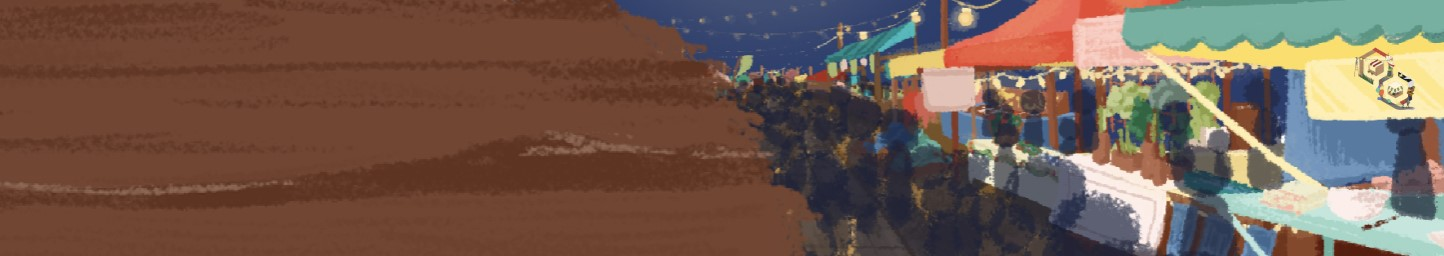
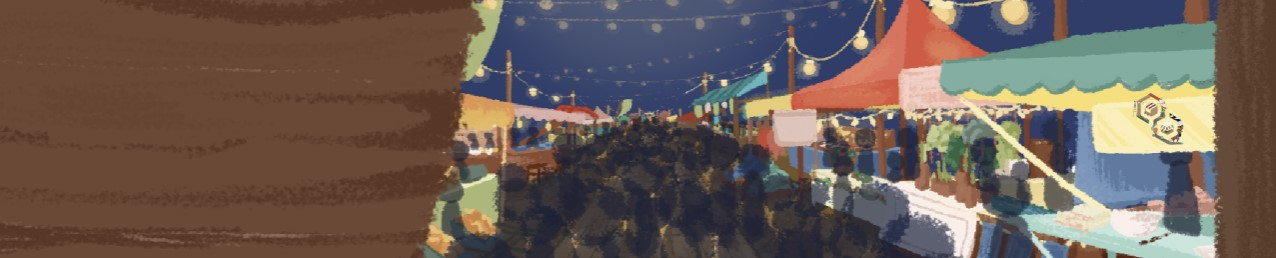
release candidate 1 // new design

diff --git a/src/components/EventCard.tsx b/src/components/EventCard.tsx
@@ -2,26 +2,28 @@ import { Box, Link, Text } from "@chakra-ui/react";
 import { EventInfo } from "../types";
 import '../styles/eventCard.css';
 
-const textColors = ['white', '#223'];
-
 const EventCard = (event: EventInfo) => {	
-	const textColor = textColors[event.useWhiteText? 0 : 1];
-	const textShadowColor = event.useWhiteText? '#223' : '#ddf';
 	
 	return (
 		<Link href={event.link} className="event-card-wrapper">
 			<Box className="event-card">
 
-				<Box bgColor={event.accentColorBg} className="event-card-year-bold">
-					<span style={{'color': event.accentColorFg}}>{event.year}</span>
+				<Box bgColor={event.colors.yearBgColor} className="event-card-year-bold">
+					<span style={{
+					color: event.colors.yearTextColor, 
+					textShadow: `2px 1px ${event.colors.yearShadowColor}`}}>
+						{event.year}
+					</span>
 				</Box>
 
 				<Box
 				bgImage={`url(${event.bgImg})`} 
+				bgSize={'cover'}
+				bgRepeat={'no-repeat'}
 				bgPos={event.bgPosition || '100% 100%'}  
 				className="event-card-content">
-					<Text color={textColor} textShadow={`2px 1px ${textShadowColor}`} className='event-card-title'>{event.title}</Text>
-					<Text color={textColor} textShadow={`2px 1px ${textShadowColor}`} className='event-card-subtitle'>{event.subtitle}</Text>
+					<Text color={event.colors.titleColor} textShadow={`2px 1px ${event.colors.titleShadowColor}`} className='event-card-title'>{event.title}</Text>
+					<Text color={event.colors.titleColor} textShadow={`1px 1px ${event.colors.titleShadowColor}`} className='event-card-subtitle'>{event.subtitle}</Text>
 				</Box>
 			
 			</Box>

diff --git a/src/styles/home.css b/src/styles/home.css
@@ -56,30 +56,26 @@ a:hover {
 .homepage-title-L, .homepage-title-R {
 	cursor: default;
 	font-family: Roboto Mono Variable, Consolas, DM Sans Variable, Inter, system-ui, -apple-system, BlinkMacSystemFont, 'Segoe UI', Roboto, Oxygen, Ubuntu, Cantarell, 'Open Sans', 'Helvetica Neue', sans-serif;
+	line-height: 1.1;
+	background-clip: text;
+	-webkit-background-clip: text;
+	-webkit-text-fill-color: transparent;
 }
 .homepage-title-L {
 	/* this just does normal text-shadow, i didnt
 	use a weird text-shadow so its horizontally centered w/ homepage-title-R */
 	font-weight: 700;
 	font-size: min(4rem, 12vw);
-	background-clip: text;
-	-webkit-background-clip: text;
-	-webkit-text-fill-color: transparent;
 	background-color: black;
 	text-shadow: -0.06em -0.03em #fed;
-	line-height: 1;
 }
 .homepage-title-R {
 	/* random thing that makes the text shadow a gradient */
 	font-weight: 800;
 	font-size: min(6rem, 16vw);
 	width: fit-content;
-	background-clip: text;
-	-webkit-background-clip: text;
-	-webkit-text-fill-color: transparent;
 	background-image: linear-gradient(90deg, rgb(90, 0, 193), rgb(226, 102, 0));
 	text-shadow: -0.06em -0.03em white;
-	line-height: 1;
 }
 
 .shadowed-text {

diff --git a/src/components/Title.tsx b/src/components/Title.tsx
@@ -1,4 +1,4 @@
-import { Box, Flex, Image, Text } from "@chakra-ui/react";
+import { Box, Flex, Image, Text, Link } from "@chakra-ui/react";
 
 import dropshadowLogo from '../assets/shadowed_logo.png';
 import LinkIcon, { LinkIconProps } from "./LinkIcon";
@@ -60,8 +60,10 @@ const Title = () => {
 		alignItems={{base: 'center', xl: 'flex-start'}}
 		justifyContent={'center'} gap={8}>
 
-			<Image src={dropshadowLogo} className="home-logo" alt="logo" />
-			
+			<Link href="https://hexlabs.org">
+				<Image src={dropshadowLogo} className="home-logo" alt="logo" />
+			</Link>
+
 			<Box className="homepage-title">
 				<Box className="homepage-title-L" textAlign={{base: 'center', xl: 'left'}}>HackGT/</Box>
 				<Box className="homepage-title-R">archive</Box>
@@ -69,7 +71,7 @@ const Title = () => {
 
 			<Box>
 				<Text fontSize="min(18px, 5vw)" fontWeight={600} className="shadowed-text" textAlign={{base: 'center', xl: 'left'}}>
-					A collection of all past HackGT and other Hexlabs events, dating all the way back to our creation in 2014!
+					A collection of all past HackGT events, dating all the way back to our creation in 2014!
 				</Text>
 			</Box>
 

diff --git a/src/pages/Home.tsx b/src/pages/Home.tsx
@@ -3,6 +3,7 @@ import Title from "../components/Title";
 import EventsList from "../components/EventsList";
 
 import '../styles/home.css';
+import BgAttribution from "../components/BgAttribution";
 
 // cool af home page (i need a cool graphic or something pls)
 const Homepage = () => {
@@ -10,7 +11,7 @@ const Homepage = () => {
 		<Container className="home-bg">
 			<Box 
 			height="full"
-			backgroundImage={{base: 'linear-gradient(to bottom, #0009, transparent 50%)', xl: 'linear-gradient(to right, #0004, #0006 50%)'}}
+			backgroundImage={{base: 'linear-gradient(to bottom, #0009, transparent 50%)', xl: 'linear-gradient(to right, #0004, #0001 50%)'}}
 			className="home-bg-overlay">
 				<Box className="idk-why-scroll-isnt-working-but-this-fixes-it">
 					<Flex 
@@ -19,6 +20,7 @@ const Homepage = () => {
 					gap={{base: 0, xl: 'min(2rem, 10%)'}}
 					pb={{base: 'var(--main-margin-top)', xl: 'min(2%, 1rem)'}}
 					className="homepage-container">
+						<BgAttribution />
 						<Title />	
 						<EventsList />
 					</Flex>

diff --git a/src/styles/eventCard.css b/src/styles/eventCard.css
@@ -31,15 +31,12 @@
 	transition: 0.1s;
 	width: 100%;
 	/* background-image applied dynamically */
-	background-size: cover;
-	background-repeat: no-repeat;
-	outline: var(--event-card-outline-width) solid transparent;
-
 	--clip-diag-slope: 15px;
 	--clip-end-offset: 40px;
 }
 
 .event-card-content {
+	--border-width: 2px;
 	position: relative;
 	display: flex;
 	flex-direction: column;
@@ -47,13 +44,13 @@
 	box-sizing: border-box;
 	width: 100%;
 	clip-path: polygon(
-		var(--clip-diag-slope) 0, 
-		calc(100% - var(--clip-end-offset)) 0, 
-		calc(100% - var(--clip-end-offset) - var(--clip-diag-slope)) 100%, 
-		0 100%
+		calc(var(--border-width) + var(--clip-diag-slope)) 0, 
+		calc(100% - var(--border-width) - var(--clip-end-offset)) 0, 
+		calc(100% - var(--border-width) - var(--clip-end-offset) - var(--clip-diag-slope)) 100%, 
+		var(--border-width) 100%
 	);
 	transition: 0.1s;
-	border: 2px solid transparent;
+	border: var(--border-width) solid transparent;
 }
 .event-card:hover .event-card-content {
 	clip-path: polygon(

diff --git a/src/types.ts b/src/types.ts
@@ -1,6 +1,5 @@
 export type EventInfo = {
 	title: string;
-	font?: string;
 	subtitle?: string;
 
 	link: string;
@@ -12,6 +11,11 @@ export type EventInfo = {
 	bgPosition?: string; // CSS background-position property. default='center'
 	useWhiteText?: boolean;
 
-	accentColorBg: string;
-	accentColorFg: string;
+	colors: {
+		yearBgColor: string;      // year background color
+		yearTextColor: string;    // year text color
+		yearShadowColor: string;  // used for year text shadow
+		titleColor: string;       // title text color
+		titleShadowColor: string; // title text shadow color
+	}
 }

diff --git a/src/components/BgAttribution.tsx b/src/components/BgAttribution.tsx
@@ -1,0 +1,18 @@
+import { Box } from '@chakra-ui/react';
+
+const BgAttribution = () => {
+	return (
+		<Box 
+		position="absolute"
+		left="1em" 
+		bottom={{base: "unset", xl: "1em"}}
+		top={{base: "1em", xl: "unset"}}
+		zIndex={500} 
+		fontSize="min(0.5vw, 0.5rem)" 
+		color="#fff4">
+			Background Image Attribution: Vecteez - <a className="uline-on-hover" href="https://www.vecteezy.com/free-vector/cartoon">Cartoon Vectors by Vecteezy</a>
+		</Box>
+	);
+};
+
+export default BgAttribution;

diff --git a/src/styles/index.css b/src/styles/index.css
@@ -9,3 +9,7 @@ body {
 	color: #fafafa;
 	font-family: DM Sans Variable, Inter, system-ui, -apple-system, BlinkMacSystemFont, 'Segoe UI', Roboto, Oxygen, Ubuntu, Cantarell, 'Open Sans', 'Helvetica Neue', sans-serif;
 }
+
+.uline-on-hover:hover {
+	text-decoration: underline;
+}
